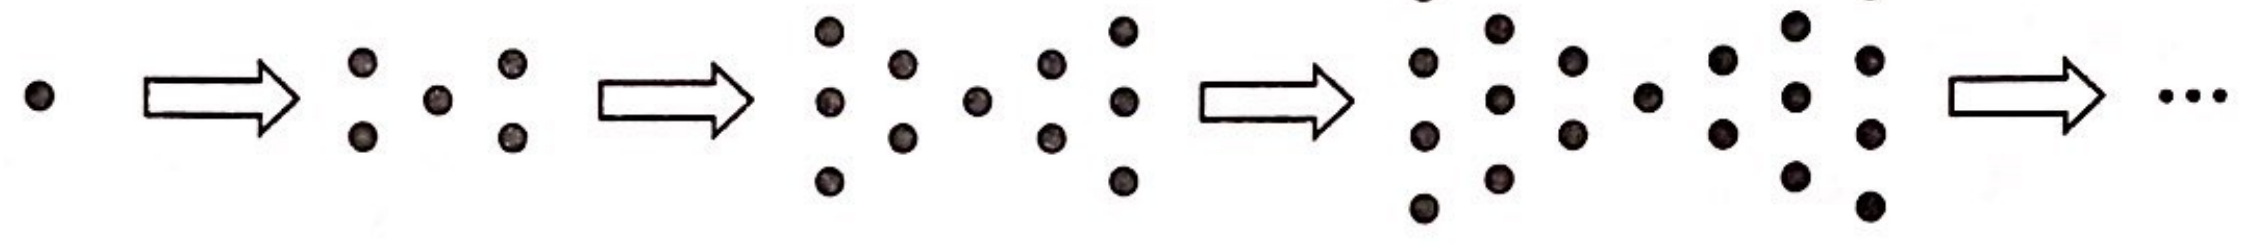
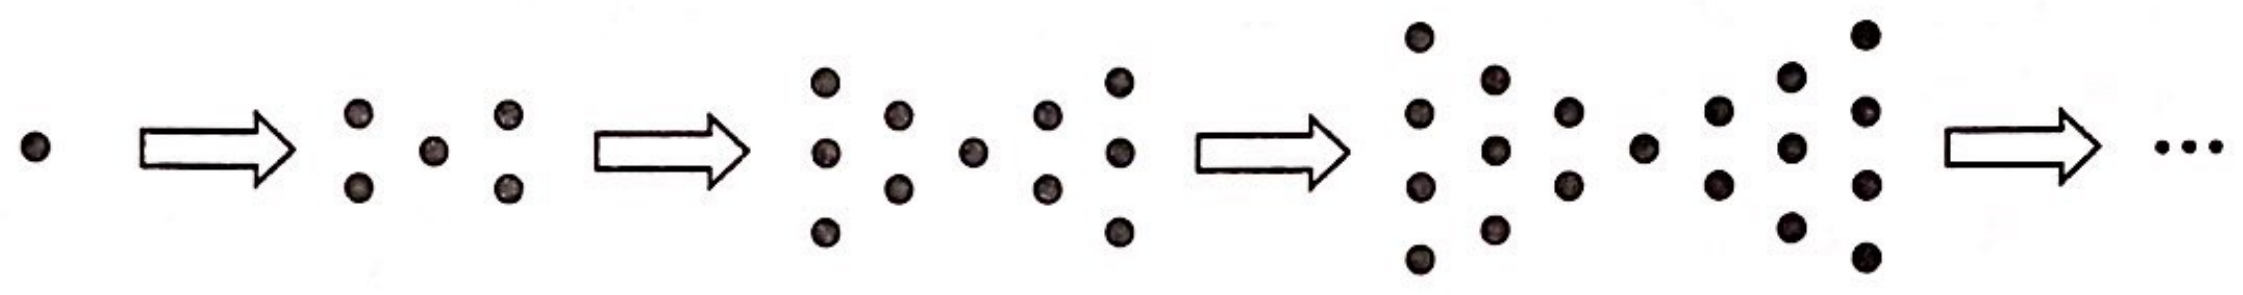
2017 Q13：重裁點陣圖（補回最上面兩粒點）

Changed region(s): [[0.0624, 0.0282, 0.9987, 0.9315], [0.0, 0.3105, 0.0312, 0.5645], [0.3433, 0.0565, 0.3745, 0.1976]]

diff --git a/docs/hub/index.html b/docs/hub/index.html
@@ -92,6 +92,6 @@
 <script src="../data.js?v=20261105n"></script>
 <script src="data.js?v=20261105n"></script>
 <script src="app.js?v=20261105n"></script>
-<script src="../pwa.js?v=202611090622"></script>
+<script src="../pwa.js?v=202611090629"></script>
 </body>
 </html>

diff --git a/docs/sw.js b/docs/sw.js
@@ -1,7 +1,7 @@
 /* ===== DSE Hub service worker â€” ç¶²çµ¡å„ªå…ˆï¼Œæ–·ç·šç”¨å¿«å– ===== */
 "use strict";
 
-const CACHE = "dsehub-v202611090622";
+const CACHE = "dsehub-v202611090629";
 const SHELL = [
   "./",
   "./hub/",

diff --git a/docs/index.html b/docs/index.html
@@ -594,6 +594,6 @@ if (!location.hash) {
   openFromHash();
 }
 </script>
-<script src="pwa.js?v=202611090622"></script>
+<script src="pwa.js?v=202611090629"></script>
 </body>
 </html>
